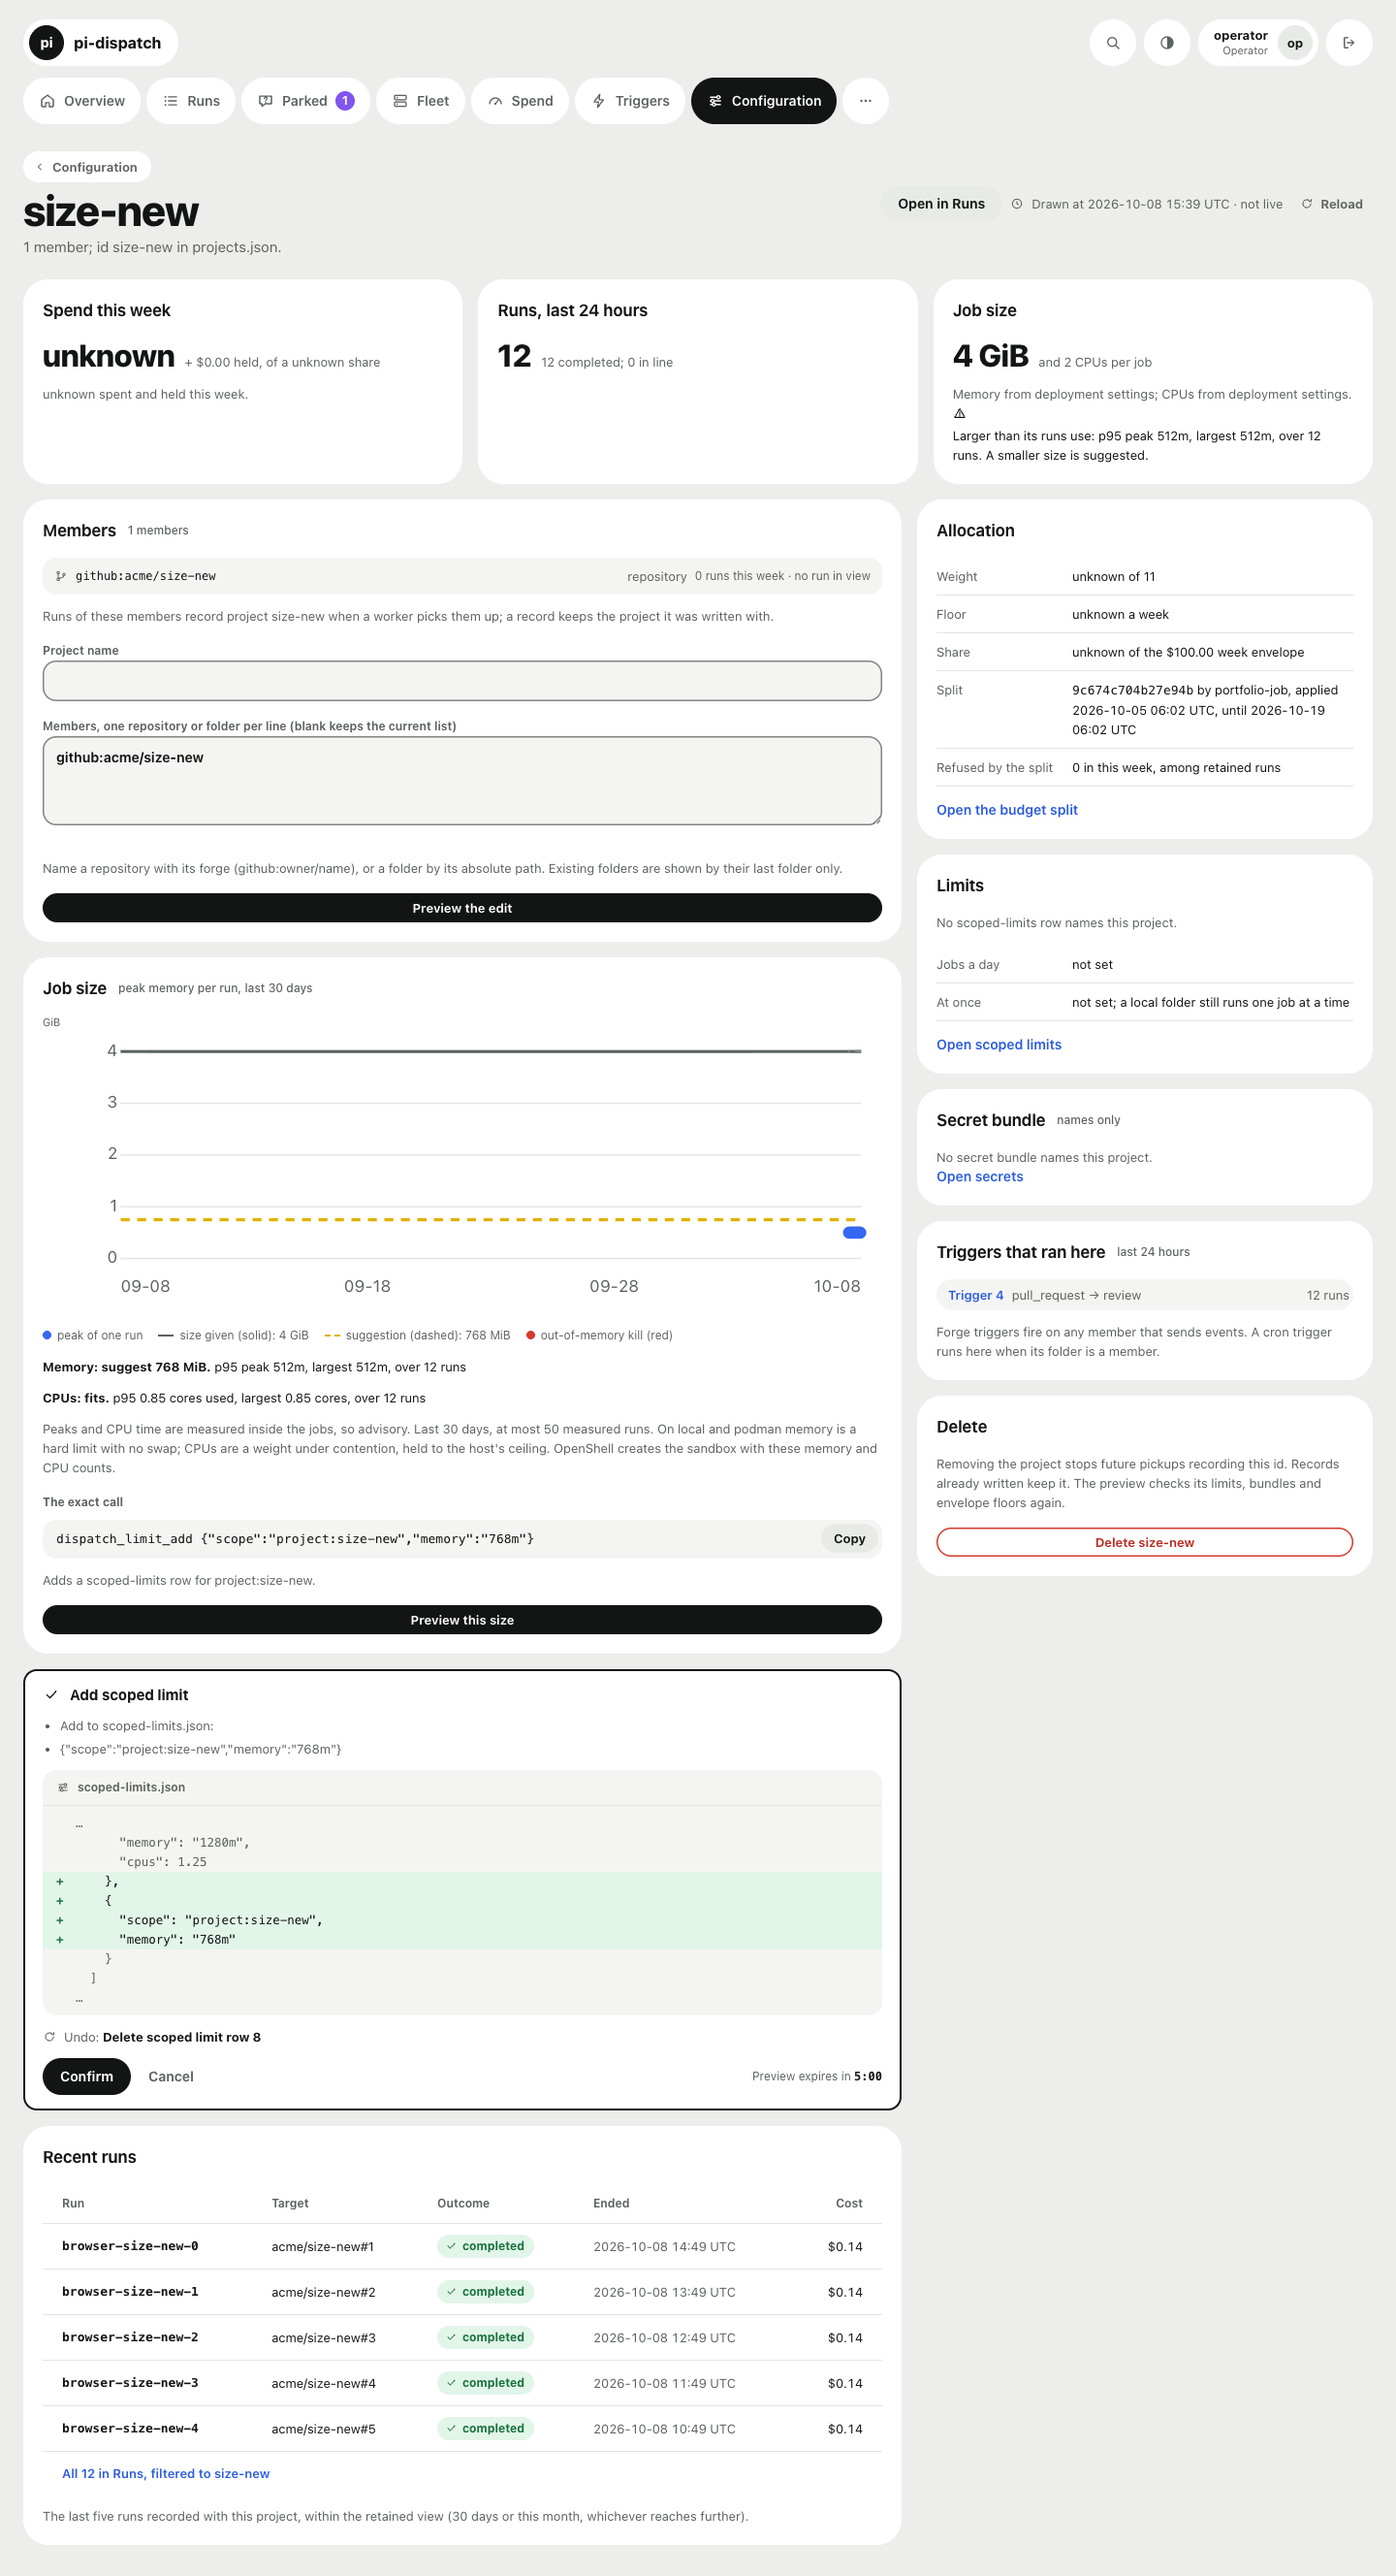
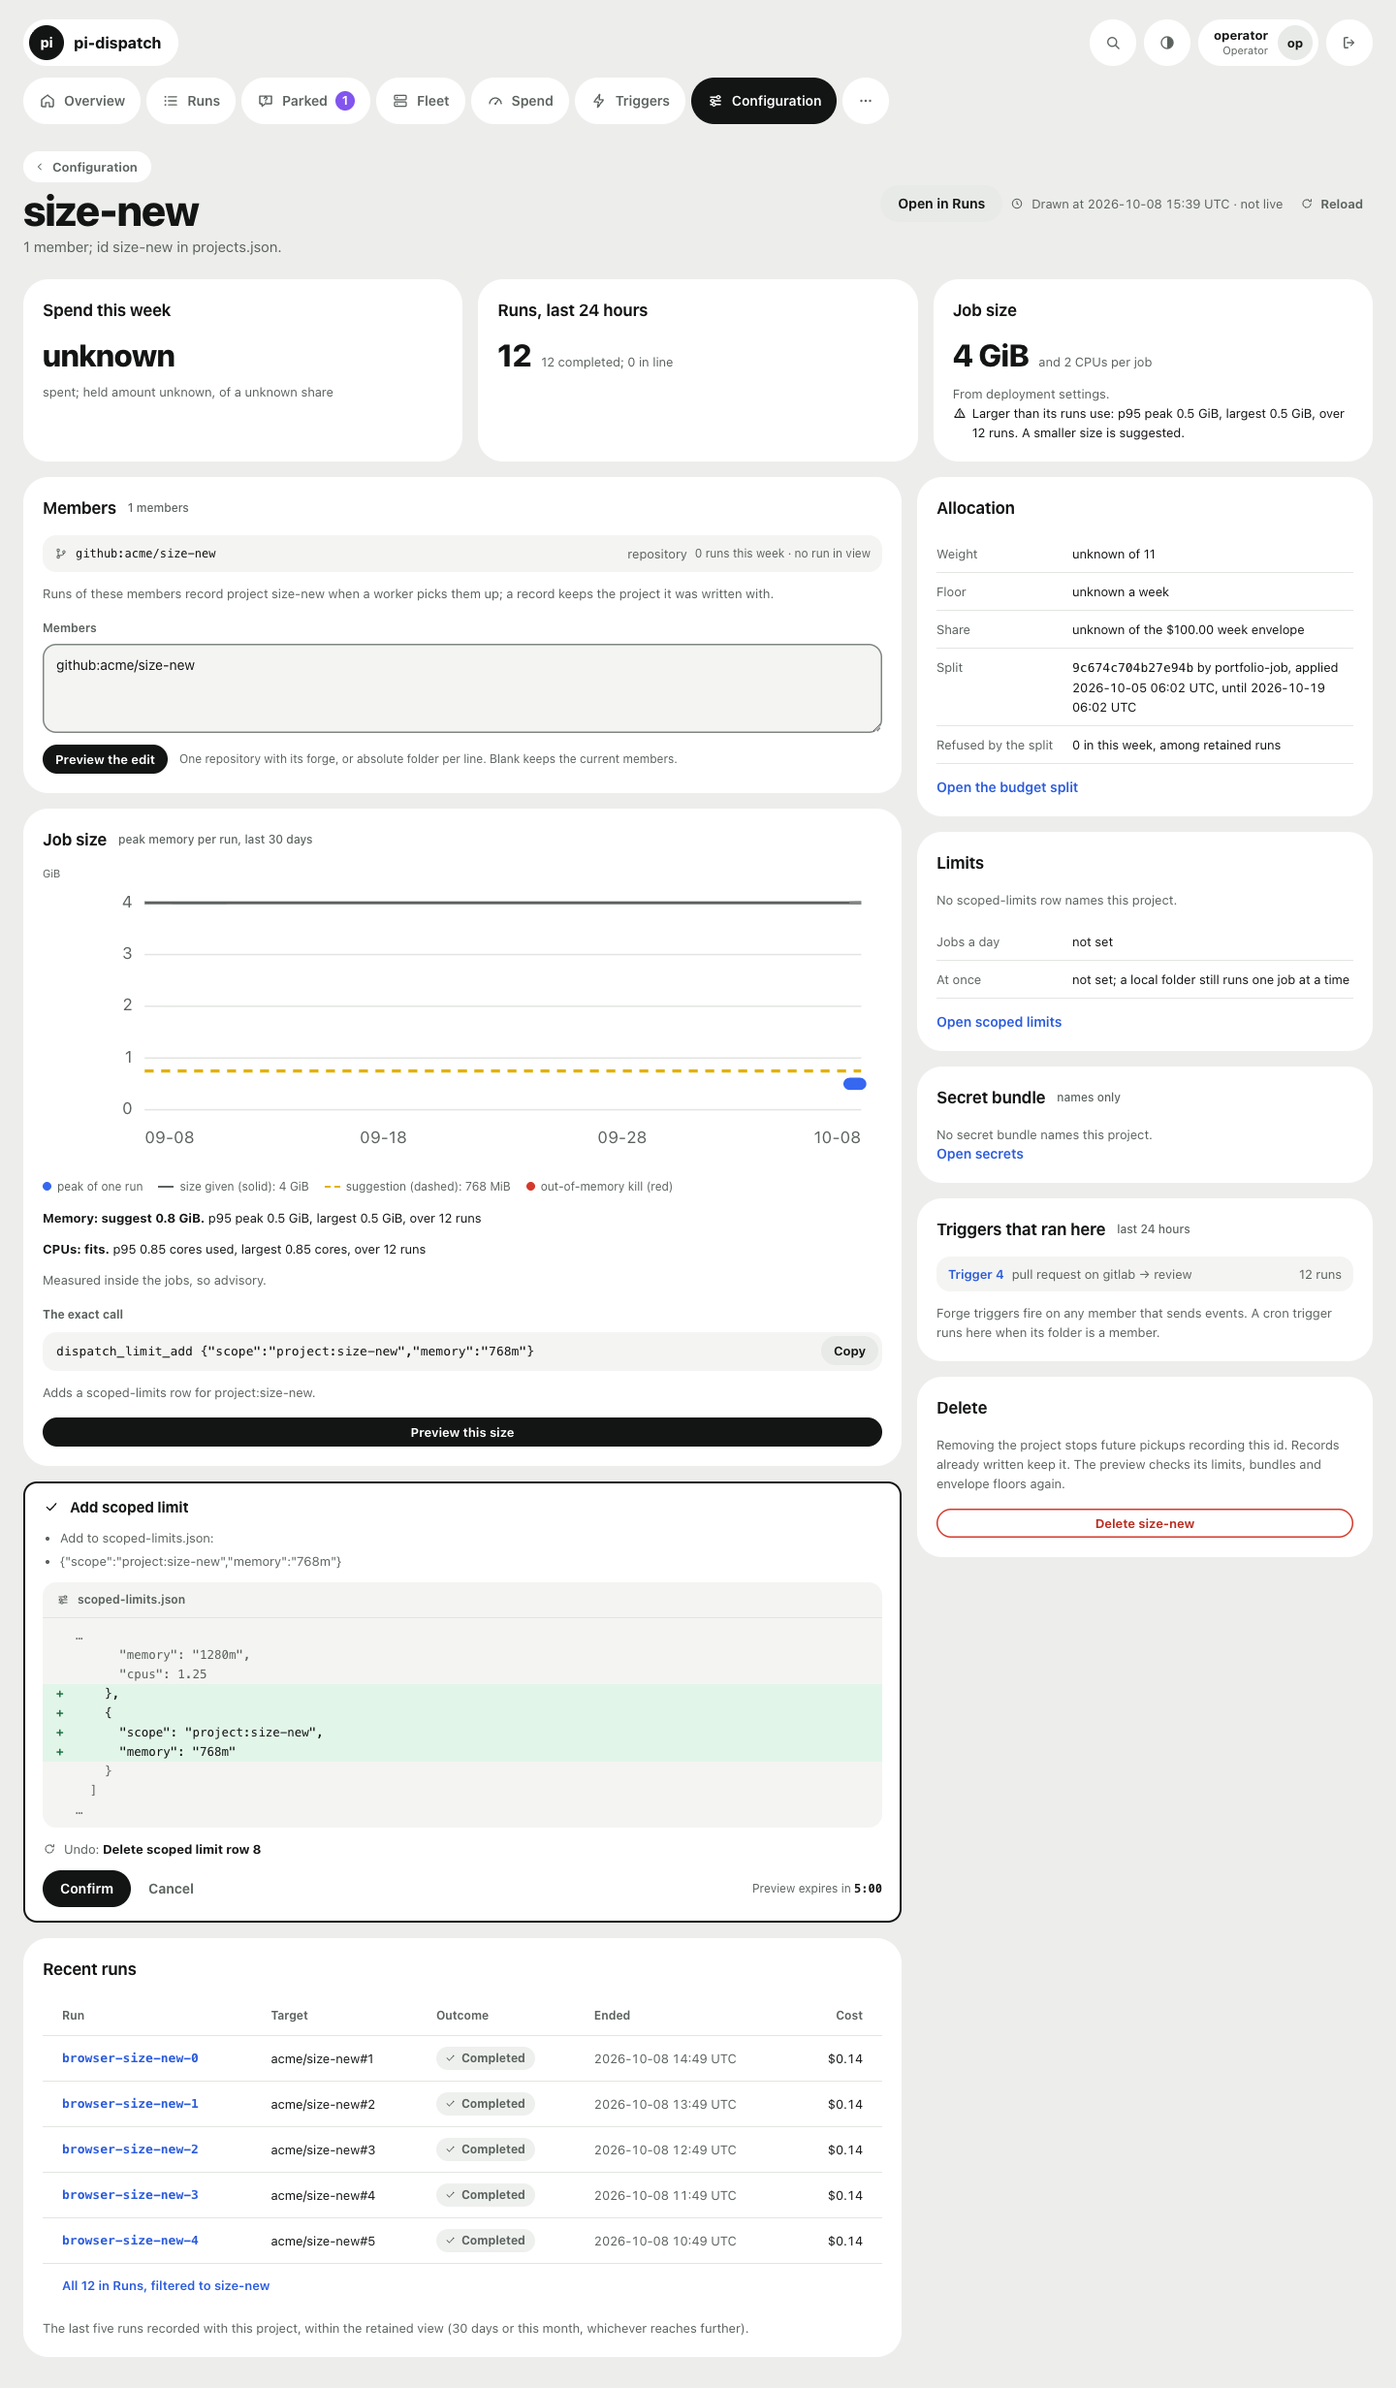
docs(console): refresh reviewed configuration evidence (#751)
Retain final served screenshots, correctly styled source-card comparisons
and clearly labelled endpoint coverage fixtures for PR #768. Record the
implementation commit and source/capture provenance outside the code branch.

UNCHANGED, checked: all CONST, REQ, DES and INT contracts. Evidence only.

diff --git a/README.md b/README.md
@@ -1,12 +1,16 @@
 # Console configuration evidence, issue #751
 
-Implementation commit: `000505bd05dca1ad1152c85fbebf4ba59e303907`.
-Baseline: Configuration from main `0c9ef5e9d3c9d583871b828295dd29fbaed58174`, served with that revision's stylesheet, script and security headers.
+Implementation commit: `5e17f674d02240460a3cecbdcdced8381c33ffb7`.
+Baseline: Configuration from main `0c9ef5e9d3c9d583871b828295dd29fbaed58174`, served with that revision's stylesheet, script and security headers. The later main changes incorporated by the implementation concern design documentation.
 
-The after images are the actual served console against a synthetic deployment, captured after the last source change. Size-add and size-edit previews came from real browser interactions through the normal preview/confirmation funnel; confirmed file changes were checked separately. The paired images put repository-published source cards on the left and the served console on the right. Their data differs. The 375-pixel chart is a close capture of the actual rendered panel.
+The after images show the served console against a synthetic deployment. Captures follow the last relevant UI changes. Size-add and size-edit previews came from actual browser interactions through the normal preview/confirmation funnel; the confirmed file changes were checked. The members-only preview was exercised and cancelled without a file mutation. The 375-pixel chart and 390-pixel forge table are close captures of the actual panels.
 
-Shared tokens and stylesheets, resolved fonts, both themes, CSP and full panel inventories were checked before captures. Browser capture matrix: 104 actual/read-only captures with computed style, font and CSP metadata, 8 no-JavaScript captures with disabled-write proof, 17 explicitly labelled exceptional-state fixture screenshots and 24 source-card references with per-capture token/style/font proof; selected images are retained here for the PR.
+Paired images put the repository source card on the left and the actual served console on the right. Datasets differ. These references include this PR's generator corrections. Shared tokens, bundle stylesheet, system fonts and themes loaded before captures. All three cards passed 114 cases over nineteen widths in both themes, measuring label words, table text, chart axes and viewport bounds. The four-slot reference graphic has four markers.
 
-The remote Claude artifact returned a Cloudflare challenge. These images do not claim direct comparison with that remote artifact. No secret values, references or private home paths are evidence data.
+The two `fixture-endpoints-*` images are **production-rendered exceptional-state fixtures**, served under the application's CSP with verified assets and fonts. They are not direct observations of the synthetic deployment: that deployment declares a worker name and legitimately reports fleet zero. The viewer fixture demonstrates an absent file worker-name declaration with retained capacity and no invented zero. The operator fixture shows two uncounted per-machine aliases beside a genuinely counted shared endpoint.
+
+The final capture set contains 112 service captures (104 JavaScript captures with computed-style/font/CSP metadata and eight no-JavaScript captures with disabled-write and native-disclosure proof), 37 exceptional-state fixture screenshots, 36 selected styled reference captures and five paired comparisons. Selected images are retained here. The actual-CSP application sweep passed 2,551 page runs over 329 documents and 1,841 shell runs over 93 documents. Keyboard previews, cancellation/focus restoration, resolver validation, no-JavaScript behavior and exact size confirmations were exercised separately.
+
+The remote Claude artifact returned a Cloudflare challenge and was inaccessible to the web tool. These images do not claim direct remote-artifact comparison. Evidence data contains no secret values, resolver lookup references or private home paths.
 
 This separate evidence branch is not implementation code. The implementation branch contains no screenshot binaries, scratch scripts, planning notes or generated build output.
